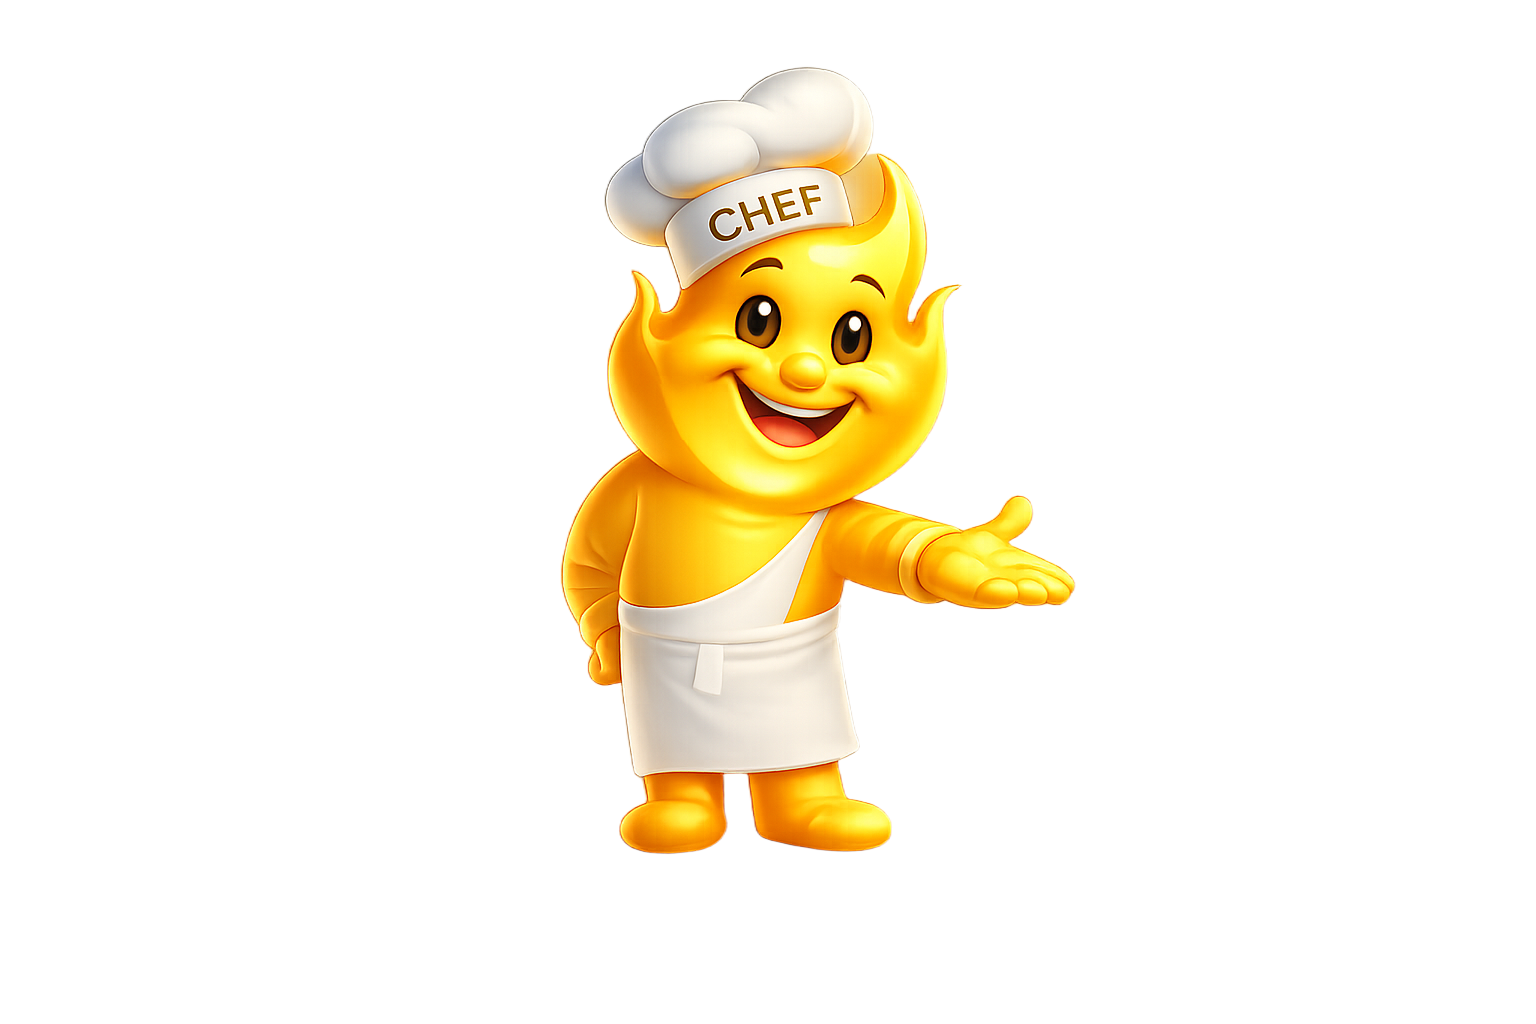
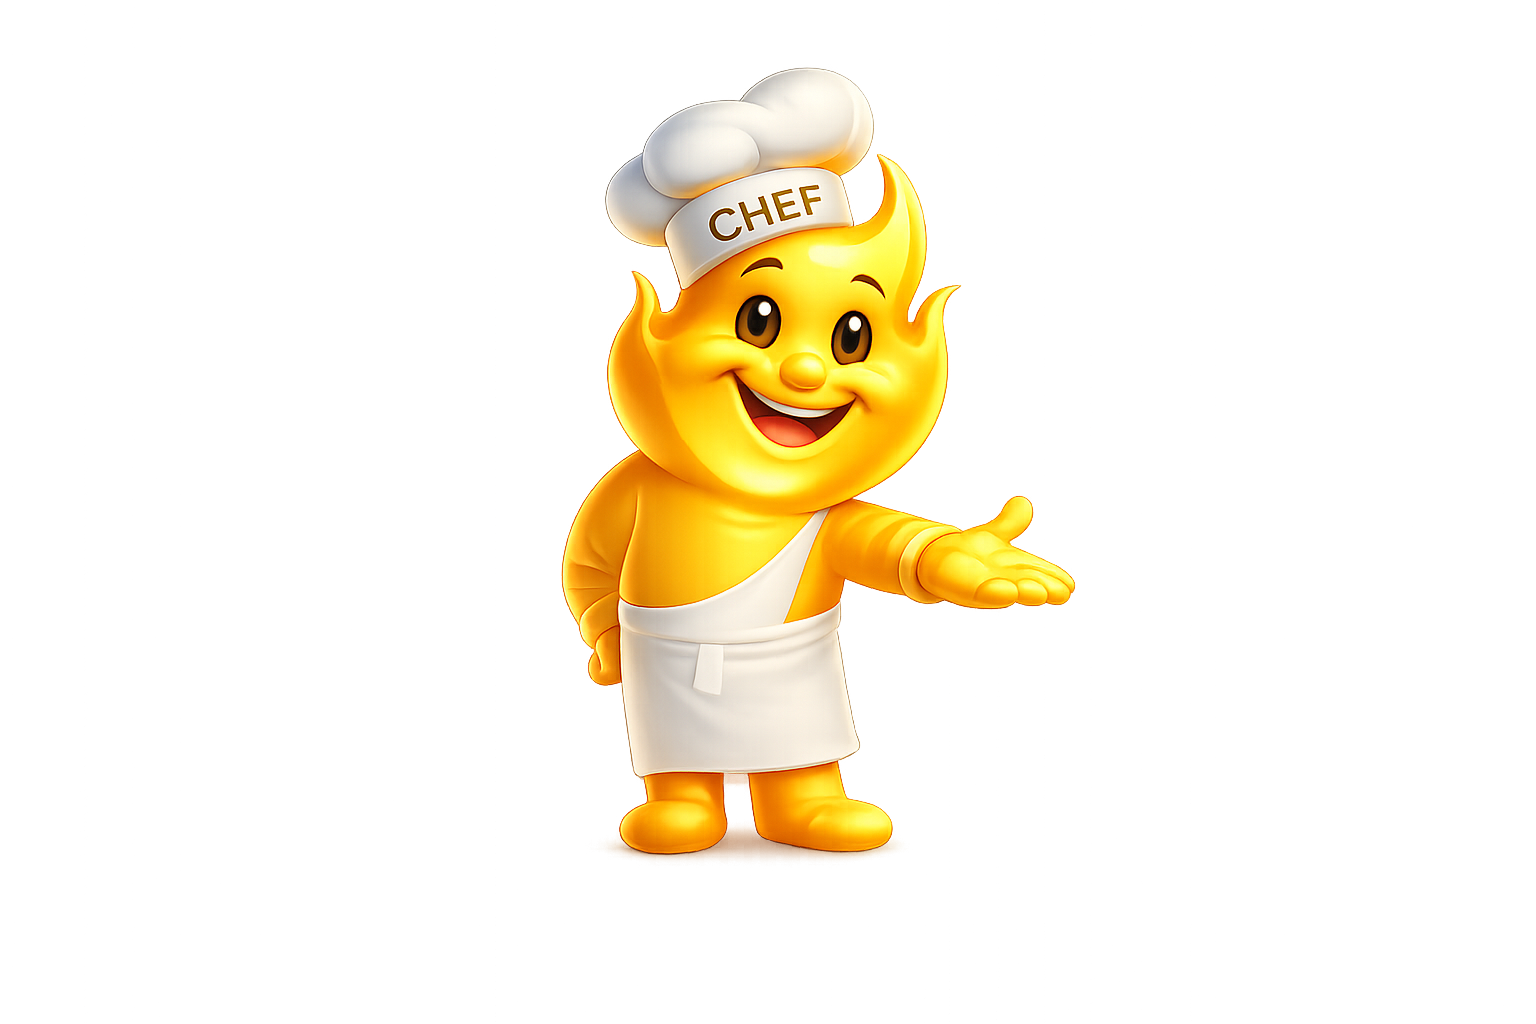
Restore all images and core code fixes for the application
Restores 149 image assets and reapplies code changes for the shopping bar and timing fixes across multiple creator pages.

Replit-Commit-Author: Agent
Replit-Commit-Session-Id: f9990f60-c797-4d18-8059-00669ae38b45
Replit-Commit-Checkpoint-Type: full_checkpoint
Replit-Commit-Event-Id: ef23021f-4f90-4355-8175-54cbd53a766a
Replit-Commit-Screenshot-Url: https://storage.googleapis.com/screenshot-production-us-central1/3898a49b-94a0-42b9-85d0-c772f8d20df7/f9990f60-c797-4d18-8059-00669ae38b45/gxrvWwY

Changed region(s): [[0.4062, 0.75, 0.5938, 0.8438], [0.5312, 0.1562, 0.5938, 0.2188], [0.5938, 0.2812, 0.625, 0.3125]]

diff --git a/client/src/pages/craving-creator.tsx b/client/src/pages/craving-creator.tsx
@@ -333,11 +333,10 @@ export default function CravingCreator() {
       }
     } catch (imgErr) {
       console.warn("[CRAVING CREATOR] Image generation failed, using fallback:", imgErr);
-    } finally {
-      setIsPlatingMeal(false);
     }
 
     setGeneratedMeals([finalMeal]);
+    setIsPlatingMeal(false);
     saveCravingCache({
       generatedMeal: finalMeal,
       craving: cravingInput,
@@ -1551,6 +1550,7 @@ export default function CravingCreator() {
             )}
             source="Craving Creator"
             hideShareButton={true}
+            aboveBottomNav={true}
           />
         )}
 

diff --git a/client/src/pages/lifestyle/ChefsKitchenPage.tsx b/client/src/pages/lifestyle/ChefsKitchenPage.tsx
@@ -1555,10 +1555,9 @@ export default function ChefsKitchenPage() {
                                     }
                                   } catch (e) {
                                     console.warn("[CHEF] Image gen failed, using fallback", e);
-                                  } finally {
-                                    setIsPlatingMeal(false);
                                   }
                                   setGeneratedMeal(finalMeal);
+                                  setIsPlatingMeal(false);
                                 }}
                                 className="shrink-0 bg-lime-600 hover:bg-lime-500 active:scale-95 text-white text-xs font-semibold px-3 py-2 rounded-lg transition-all"
                               >
@@ -2287,6 +2286,7 @@ export default function ChefsKitchenPage() {
           }))}
           source="Chef's Kitchen"
           sourceSlug="chefs-kitchen"
+          aboveBottomNav={true}
         />
       )}
     </motion.div>

diff --git a/client/src/pages/CravingDessertCreator.tsx b/client/src/pages/CravingDessertCreator.tsx
@@ -1027,6 +1027,7 @@ export default function DessertCreator() {
                 }))}
                 source="Dessert Creator"
                 hideShareButton={true}
+                aboveBottomNav={true}
               />
             </div>
           )}